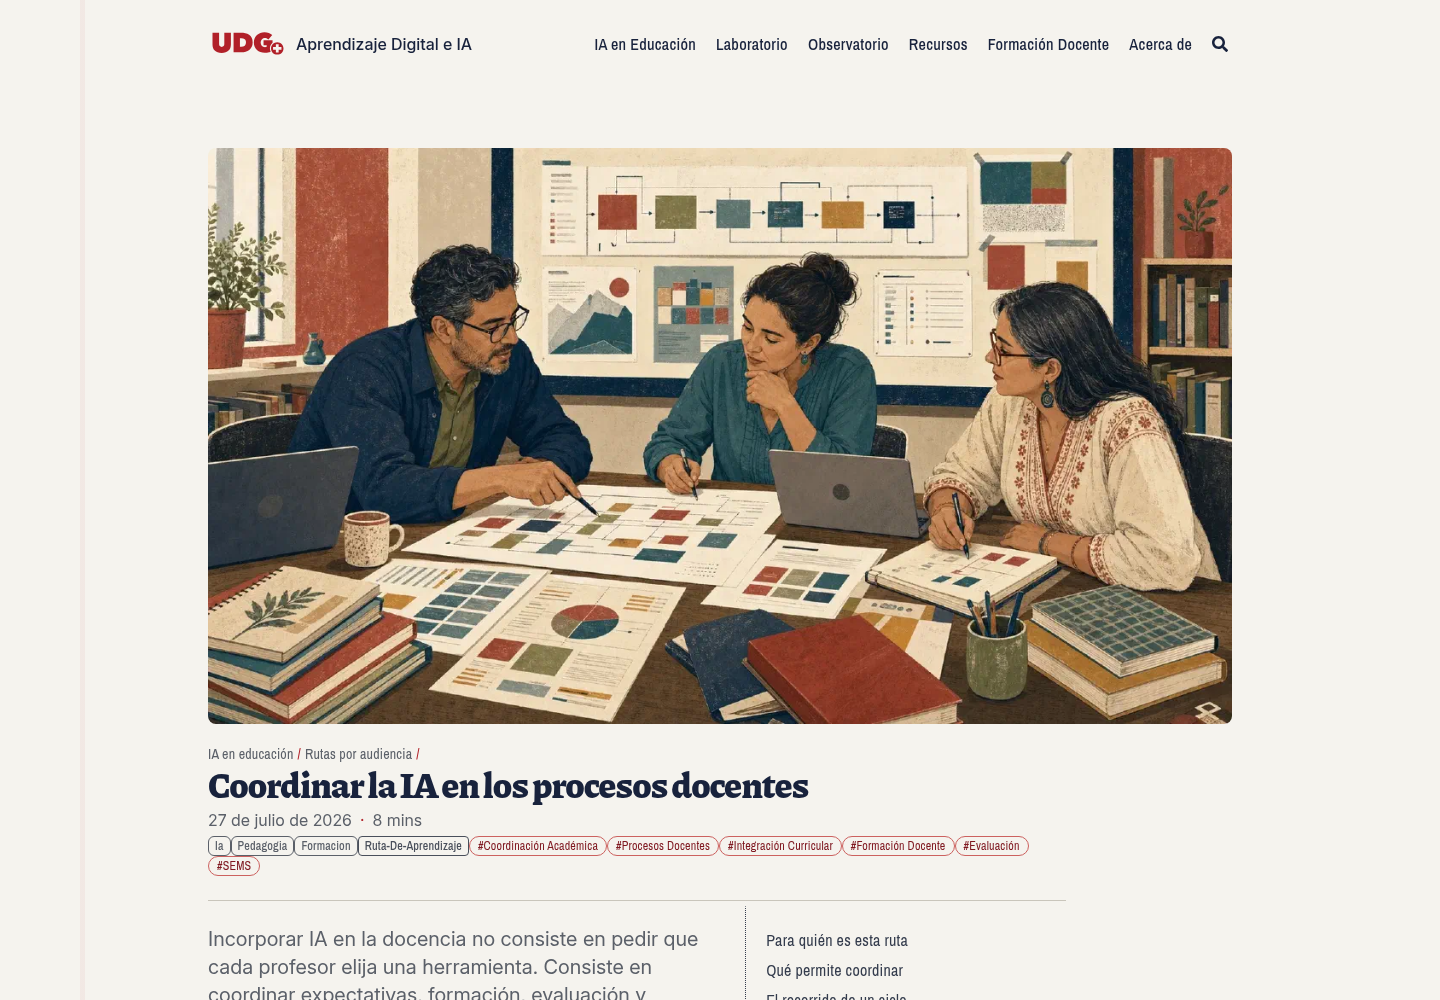
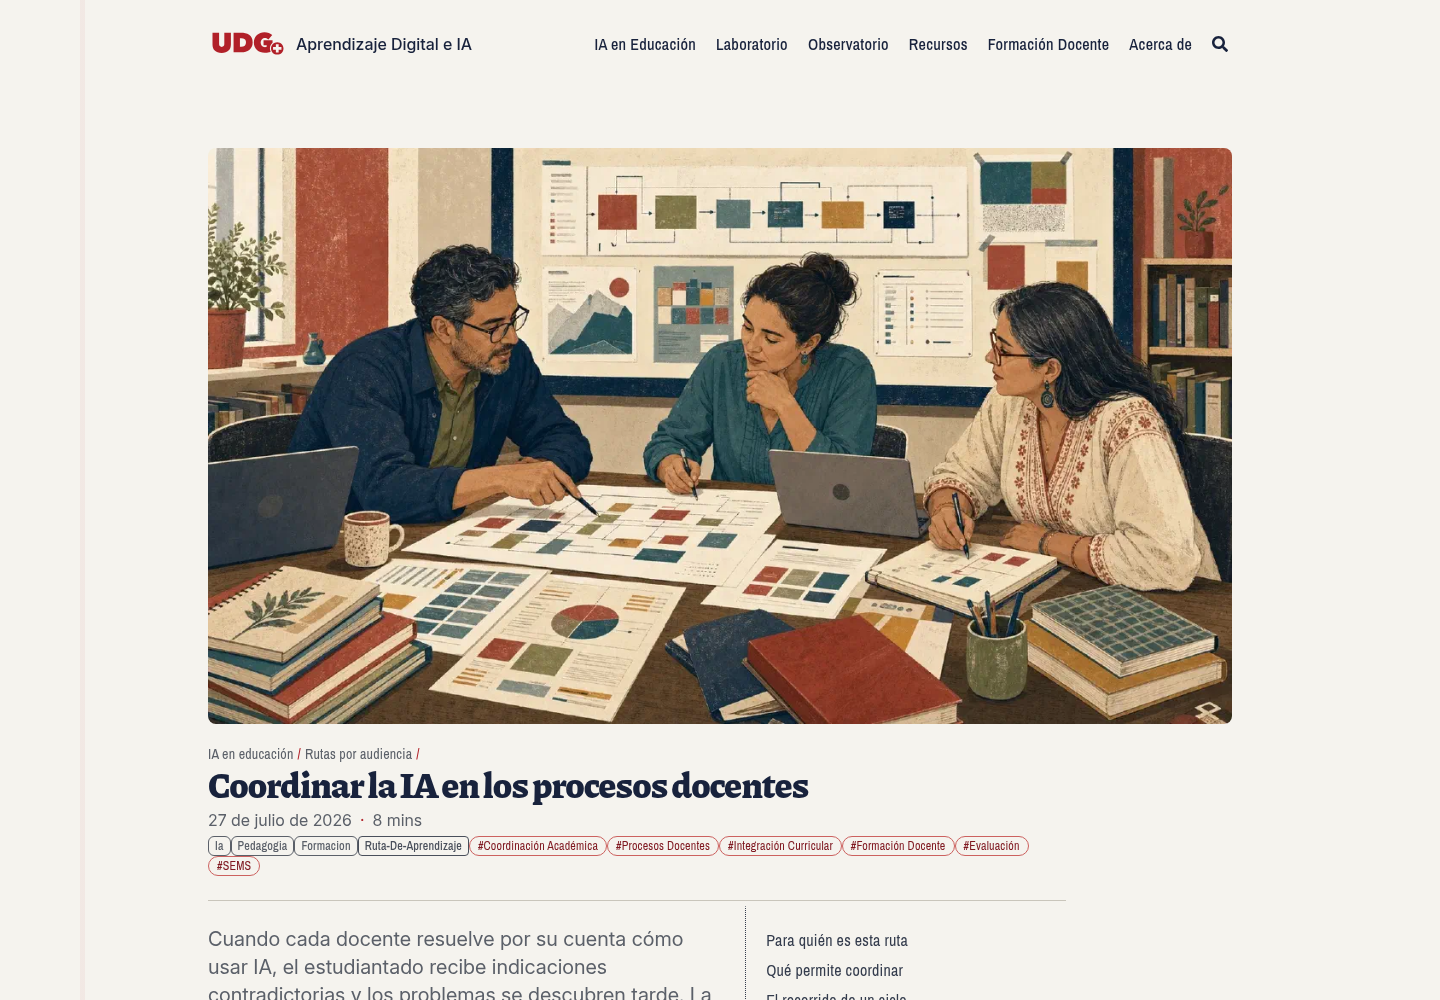
refactor: enfocar la ruta en trabajo colegiado

Changed region(s): [[0.125, 0.93, 0.5, 1.0]]

diff --git a/content/ia-educacion/rutas/coordinacion-academica/index.md b/content/ia-educacion/rutas/coordinacion-academica/index.md
@@ -22,7 +22,7 @@ ecosistema:
   intenciones: [comprender, decidir, diseñar, evaluar, gobernar]
   tipo: guia
   capas: [R1, R2, R3, R4, R5, R7, D4, D5, P.evaluacion-proceso, P.trazabilidad]
-  resultado: "Organiza un piloto docente acotado, define acuerdos de programa y decide si conviene sostenerlo, modificarlo, escalarlo o detenerlo con base en evidencias."
+  resultado: "Organiza un piloto docente acotado, define acuerdos de programa y decide si conviene sostenerlo, modificarlo, ampliarlo o detenerlo con base en evidencias."
   estado_evidencia: prototipo-escenario
   fuentes:
     - "Orientaciones institucionales UdG para IA, secciones 2.3, 7, 8 y 11"
@@ -44,15 +44,16 @@ ecosistema:
 ---
 
 {{< lead >}}
-Incorporar IA en la docencia no consiste en pedir que cada profesor elija una herramienta.
-Consiste en coordinar expectativas, formación, evaluación y apoyos para que las decisiones de
-las asignaturas sean distintas cuando lo necesiten, pero no contradictorias ni aisladas.
+Cuando cada docente resuelve por su cuenta cómo usar IA, el estudiantado recibe indicaciones
+contradictorias y los problemas se descubren tarde. La coordinación puede ordenar
+expectativas, formación, evaluación y apoyos sin uniformar todas las asignaturas.
 {{< /lead >}}
 
 {{< alert icon="clipboard-check" type="info" >}}
-Esta es una **ruta operativa en construcción**, no un reglamento ni una política universitaria
-vigente. Está dirigida a jefaturas de departamento, coordinaciones de programas docentes de
-licenciatura y posgrado, academias y equipos del SEMS.
+Esta **guía de trabajo** está dirigida a jefaturas de departamento, coordinaciones de
+programas docentes de licenciatura y posgrado, academias y equipos del SEMS. Ayuda a
+organizar un piloto y acuerdos colegiados; no sustituye las disposiciones universitarias
+vigentes.
 {{< /alert >}}
 
 ## Para quién es esta ruta
@@ -63,16 +64,15 @@ licenciatura y posgrado, academias y equipos del SEMS.
   {{< card link="#coordinaciones-y-equipos-del-sems" title="SEMS" icon="school" color="#2f7f83" description="Necesito una implementación gradual, apropiada para el nivel formativo y coherente entre escuelas, academias y asignaturas." >}}
 {{< /cards >}}
 
-Las tres entradas comparten un mismo resultado: que el profesorado sepa qué puede decidir,
-qué apoyo recibirá, qué necesita comunicar al estudiantado y qué evidencia permitirá revisar
-los acuerdos al final del ciclo.
+El punto común es concreto. El profesorado debe saber qué puede decidir, qué apoyo recibirá,
+qué necesita comunicar al estudiantado y qué evidencia se revisará al final del ciclo.
 
 ## Qué permite coordinar
 
 La ruta se concentra en tareas que pueden convertirse en trabajo colegiado:
 
 - diagnosticar asignaturas, evaluaciones y necesidades docentes;
-- acordar criterios disciplinares o de programa que orienten el syllabus;
+- acordar criterios disciplinares o de programa que orienten los programas de asignatura;
 - organizar formación y acompañamiento del profesorado;
 - preparar pilotos acotados y alternativas equivalentes sin IA;
 - reunir evidencias para revisar la práctica al cierre del ciclo;
@@ -89,8 +89,8 @@ se requiere una respuesta.
 pilotar, revisar y documentar la decisión.](ciclo-coordinacion.svg
 "Ciclo operativo de coordinación académica")
 
-En texto: la coordinación delimita un problema docente concreto; reúne una línea de base;
-acuerda criterios mínimos; acompaña a quienes rediseñarán syllabus, actividades y
+**Recorrido en texto:** la coordinación delimita un problema docente concreto; reúne una línea de base;
+acuerda criterios mínimos; acompaña a quienes rediseñarán programas de asignatura, actividades y
 evaluaciones; prueba esos cambios en pocas asignaturas o academias; y revisa evidencias para
 sostener, modificar, ampliar o detener el piloto. La revisión abre un nuevo ciclo, no una
 regla permanente.
@@ -110,15 +110,15 @@ para convertirse en trabajo. Un punto de partida útil nombra:
 que hoy pueden resolverse con IA sin mostrar comprensión, formar a sus docentes y acordar
 cómo se documentará el proceso.
 
-**Entregable:** una ficha de una página con propósito, alcance, responsables, calendario,
-recursos disponibles y decisiones que quedarán fuera.
+**Ficha de alcance:** una página con propósito, alcance, responsables, calendario, recursos
+disponibles y decisiones que quedarán fuera.
 
 ## 2. Diagnosticar prácticas y evaluaciones
 
-No conviene comenzar preguntando qué herramienta comprar. Primero se observa qué está
-ocurriendo en los procesos docentes:
+La compra de una herramienta no es el punto de partida. Primero se observa qué está ocurriendo
+en los procesos docentes:
 
-1. revisar una muestra pequeña de syllabus, consignas y rúbricas;
+1. revisar una muestra pequeña de programas de asignatura, consignas y rúbricas;
 2. identificar dónde el estudiantado ya usa IA, aunque no esté declarada;
 3. distinguir evaluaciones que conservan su validez de las que requieren rediseño;
 4. localizar brechas de acceso, privacidad o formación;
@@ -129,13 +129,13 @@ método para mapear competencias, asignaturas y evaluaciones. Los
 [flujos de trabajo docente](/laboratorio/integracion-ia/flujos-trabajo-docente-ia/) ayudan a
 localizar los puntos donde debe permanecer una decisión humana.
 
-**Entregable:** una línea de base breve que distingue lo observado, lo inferido y lo que aún
-no se sabe.
+**Línea de base:** un registro breve que distingue lo observado, lo inferido y lo que aún no
+se sabe.
 
 ## 3. Acordar criterios mínimos de programa
 
-Un acuerdo operativo no necesita enumerar todas las herramientas. Necesita responder, con
-lenguaje común, preguntas que el profesorado pueda trasladar al syllabus:
+El acuerdo fija criterios que el profesorado puede trasladar a su programa de asignatura.
+Debe responder, con lenguaje común:
 
 - ¿qué debe enseñarse antes de pedir un uso responsable?;
 - ¿qué usos se permiten, se restringen o se excluyen según el aprendizaje esperado?;
@@ -150,16 +150,16 @@ Los [lineamientos éticos operativos](/ia-educacion/guias/lineamientos-eticos-ia
 [guía de evaluación formativa](/ia-educacion/guias/evaluacion-formativa-ia/) desarrollan
 estas decisiones.
 
-**Entregable:** una guía disciplinar o de programa de una o dos páginas, fechada, versionada
-y con responsable de revisión. Es una orientación de trabajo dentro de las atribuciones del
-órgano que la acuerda; no simula ser una política institucional.
+**Guía de programa:** una o dos páginas, fechadas y versionadas, con responsable de revisión.
+Debe indicar qué cuerpo colegiado la acordó, en qué asignaturas o procesos se aplicará y
+cuándo volverá a revisarse.
 
 ## 4. Acompañar el rediseño docente
 
-La coordinación no pide cambios sin ofrecer condiciones para realizarlos. El acompañamiento
-combina:
+La coordinación acompaña los cambios con tiempo, formación y asesoría. El plan puede combinar:
 
-- una introducción común a las tres literacidades;
+- una introducción común al uso básico de IA, la verificación crítica y la autoría
+  responsable;
 - talleres breves sobre objetivos, evaluación y transparencia;
 - tiempo colegiado para revisar actividades reales;
 - ejemplos disciplinares que puedan adaptarse;
@@ -168,50 +168,51 @@ combina:
 
 El [taller de diseño de actividades con IA](/formacion-docente/taller-diseno-actividades-ia-backward/)
 ofrece una secuencia replicable y la
-[guía de syllabus y portafolio](/formacion-docente/syllabus-portafolio/) ayuda a traducir los
-acuerdos a cada curso.
+[guía de programas de asignatura y portafolio](/formacion-docente/syllabus-portafolio/) ayuda
+a traducir los acuerdos a cada curso.
 
-**Entregable:** un plan de acompañamiento vinculado con los cambios que el piloto realmente
-pedirá, no un curso genérico sobre herramientas.
+**Plan de acompañamiento:** actividades vinculadas con los cambios que el piloto realmente
+pedirá. Un curso genérico sobre herramientas no basta.
 
 ## 5. Pilotar en un alcance acotado
 
 Un piloto prueba una hipótesis pedagógica y organizativa. Antes de iniciar debe quedar claro:
 
 - qué asignaturas, grupos o academias participan;
-- qué cambia en el syllabus, las actividades y la evaluación;
+- qué cambia en los programas de asignatura, las actividades y la evaluación;
 - qué apoyo recibirán docentes y estudiantes;
 - qué alternativa se ofrecerá cuando la IA no sea accesible o pertinente;
-- qué incidentes deben escalarse de inmediato;
+- qué casos requieren una consulta inmediata y con quién;
 - qué evidencias se recogerán y cuáles no.
 
 Conviene comenzar con pocos casos contrastantes: una asignatura de fundamentos, una de
 aplicación y, cuando corresponda, una de cierre, titulación o investigación. La comparación
 permite reconocer dónde la misma orientación necesita expresarse de forma diferente.
 
-**Entregable:** una ficha por caso con propósito, cambio docente, apoyo, evidencia, riesgo,
-responsable y fecha de revisión.
+**Ficha de piloto:** un registro por caso con propósito, cambio docente, apoyo, evidencia,
+riesgo, responsable y fecha de revisión.
 
 ## 6. Revisar evidencias y decidir
 
-La revisión no pregunta solamente si «se usó mucho» la IA. Pregunta si el proceso docente
-mejoró y si la coordinación pudo sostenerlo.
+La revisión pregunta si el proceso docente mejoró y si la coordinación pudo sostenerlo. La
+cantidad de usos de IA, por sí sola, no responde ninguna de las dos preguntas.
 
 | Evidencia útil | Pregunta que permite responder |
 |---|---|
-| muestra de syllabus y rúbricas antes/después; | ¿las expectativas y los criterios se hicieron más claros? |
+| muestra de programas de asignatura y rúbricas antes/después; | ¿las expectativas y los criterios se hicieron más claros? |
 | versiones de actividades y evaluaciones; | ¿el rediseño protege o mejora el aprendizaje esperado? |
 | consultas y casos no previstos, anonimizados; | ¿qué vacíos tuvo la guía y qué apoyo faltó? |
 | participación y productos de la formación; | ¿la capacitación llegó a la práctica o quedó aislada? |
 | problemas de acceso y alternativas utilizadas; | ¿el piloto produjo o redujo desigualdades? |
 | retroalimentación breve de docentes y estudiantes; | ¿qué funcionó, para quién y bajo qué condiciones? |
 
-No se necesitan conversaciones completas con IA, datos personales, rankings de docentes ni
-porcentajes de detectores de texto. Esas fuentes añaden vigilancia sin demostrar aprendizaje.
+Conviene excluir conversaciones completas con IA, datos personales, rankings de docentes y
+porcentajes de detectores de texto. Añaden vigilancia sin demostrar aprendizaje.
 
 **Decisión de cierre:** sostener, modificar, ampliar o detener. Cualquiera de las cuatro se
 documenta con alcance y razones. Cuando la decisión rebasa las atribuciones académicas
-operativas, se formula como asunto a escalar, no como disposición local.
+operativas, se convierte en una solicitud documentada: necesidad, evidencia disponible,
+instancia a consultar y fecha en la que se requiere respuesta.
 
 ## El mismo recorrido en tres contextos
 
@@ -243,16 +244,16 @@ secuencia gradual que las academias puedan adaptar sin perder un núcleo común.
 
 Para iniciar sin convertir la reunión en un debate abstracto:
 
-1. **Antes:** reunir tres syllabus, tres evaluaciones frecuentes, el perfil de egreso o
-   referente formativo y dos casos que hayan generado dudas.
+1. **Antes:** reunir tres programas de asignatura, tres evaluaciones frecuentes, el perfil de
+   egreso o referente formativo y dos casos que hayan generado dudas.
 2. **Minutos 0–15:** acordar el problema concreto y lo que queda fuera.
 3. **Minutos 15–40:** revisar los ejemplos y distinguir hechos, supuestos y vacíos.
 4. **Minutos 40–60:** elegir uno o dos casos para un piloto.
 5. **Minutos 60–75:** asignar responsable, apoyo, evidencia y ruta de consulta.
 6. **Minutos 75–90:** fijar el siguiente producto y la fecha de revisión.
 
-La sesión termina con una ficha de alcance y una tarea verificable. No necesita terminar con
-un reglamento.
+La sesión termina con una ficha de alcance y una tarea verificable. Ese es el producto
+esperado, no un reglamento.
 
 ## Continúa según la decisión que necesitas tomar
 

diff --git a/docs/editorial/UDGIA-004C-alcance-coordinacion-academica.md b/docs/editorial/UDGIA-004C-alcance-coordinacion-academica.md
@@ -66,6 +66,13 @@ forma parte del contenido público de la ruta. La página sólo explica cómo re
 dependencia que el equipo no puede resolver: necesidad, efecto sobre el piloto, persona a
 consultar y fecha requerida.
 
+El barrido editorial posterior llevó la página hacia el vocabulario de trabajo de su
+audiencia: «programa de asignatura» sustituye a `syllabus`; las tres literacidades se expresan
+como uso básico, verificación crítica y autoría responsable; cada etapa nombra un producto
+concreto; y los casos fuera de atribuciones se convierten en solicitudes documentadas. La
+apertura parte ahora del problema observable —indicaciones contradictorias cuando cada
+docente resuelve por su cuenta— y no de una definición general.
+
 ## 5. Imagen editorial
 
 La portada usa
